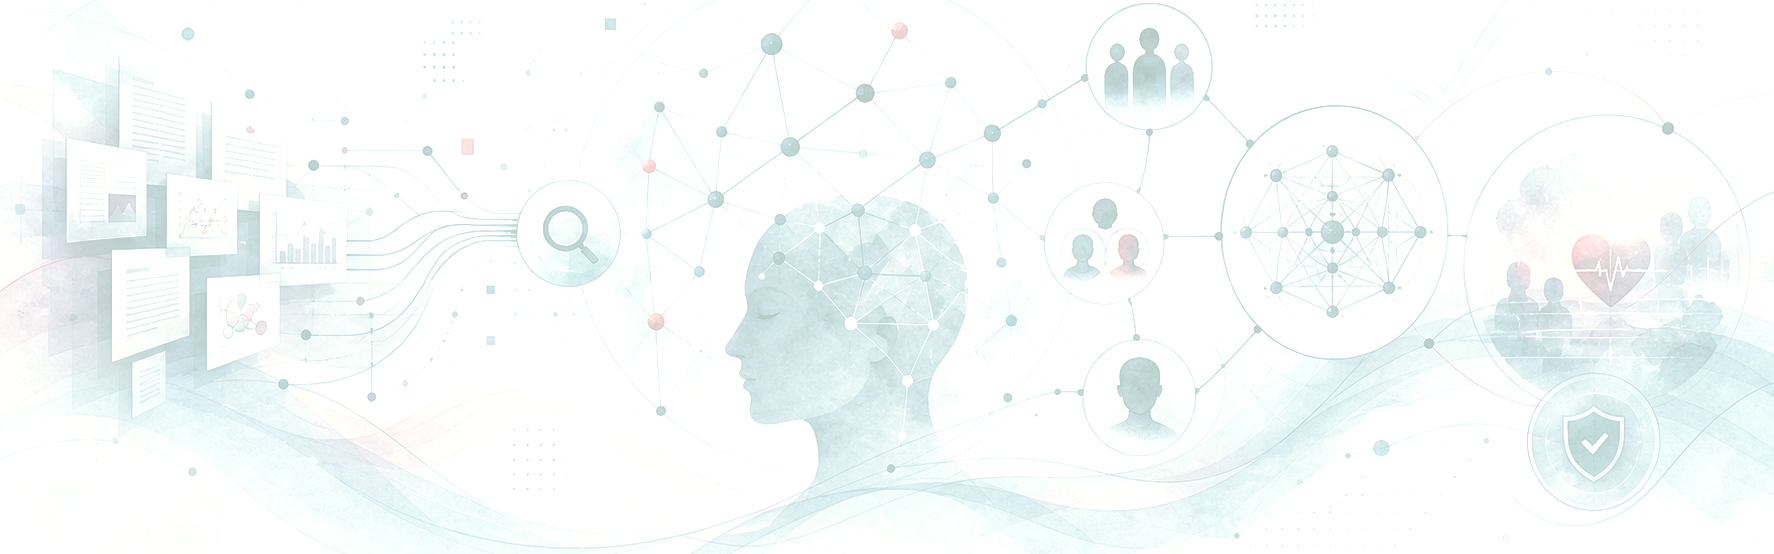
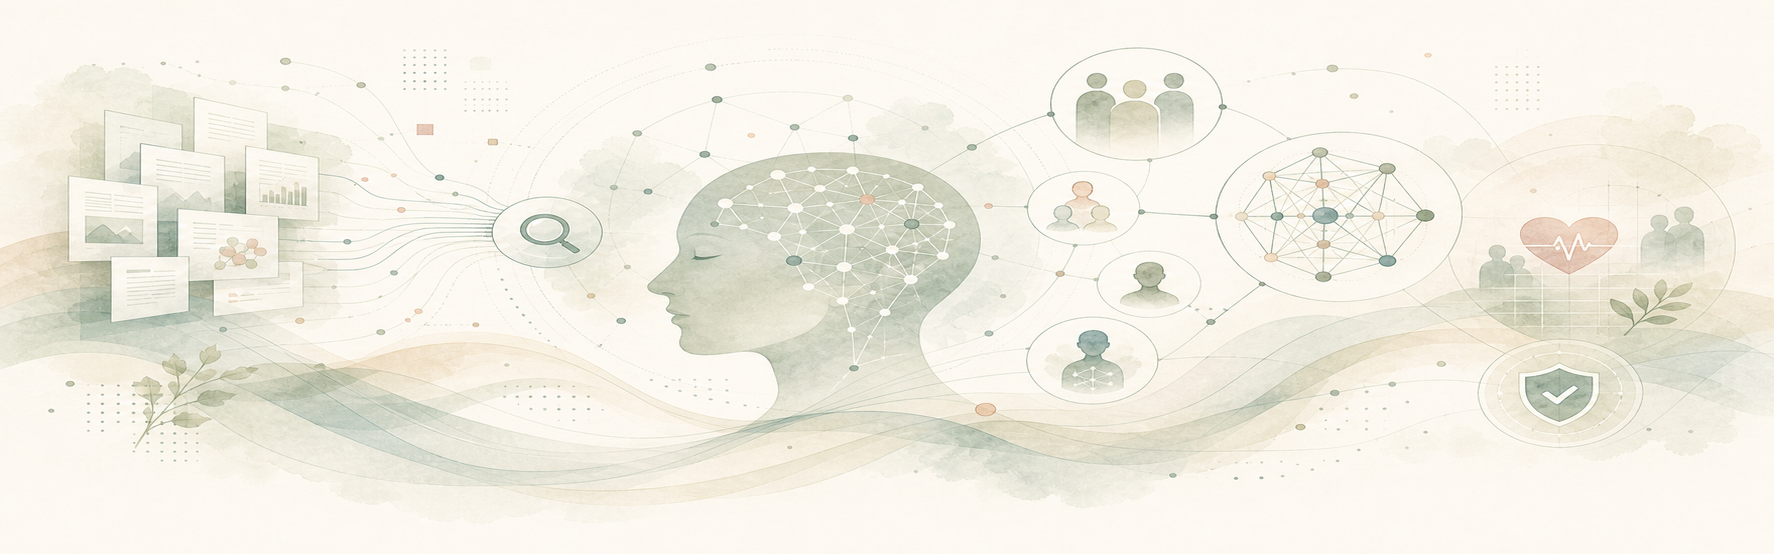
Regenerate research visual in whitelephant style

diff --git a/index.html b/index.html
@@ -230,7 +230,7 @@
         </p>
         <figure class="research-visual" data-research-visual role="img" tabindex="0" aria-label="Interactive conceptual map of research directions">
           <div class="research-visual-inner" data-research-layer>
-            <img src="/img/research-map-yujia.png" alt="Conceptual illustration of information retrieval, personalization, social simulation, LLM agents, and health-related model audits">
+            <img src="/img/research-map-yujia.png?v=20260709-imagegen2" alt="Conceptual illustration of information retrieval, personalization, social simulation, LLM agents, and health-related model audits">
             <span class="research-flow flow-a" aria-hidden="true"></span>
             <span class="research-flow flow-b" aria-hidden="true"></span>
             <span class="research-flow flow-c" aria-hidden="true"></span>